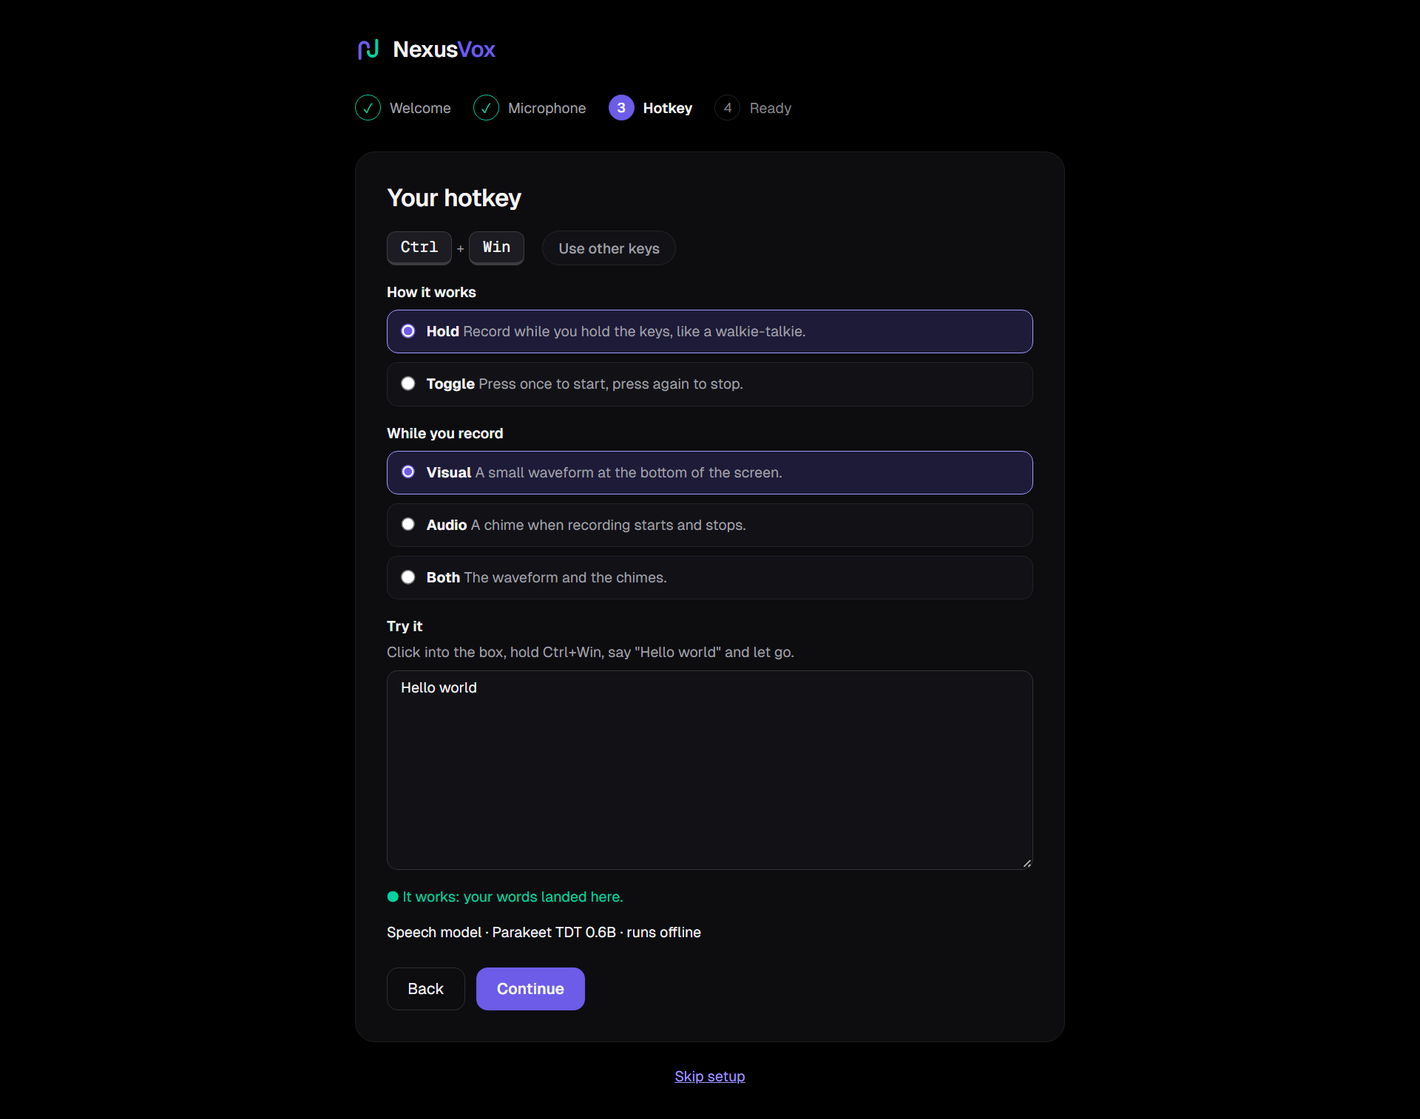
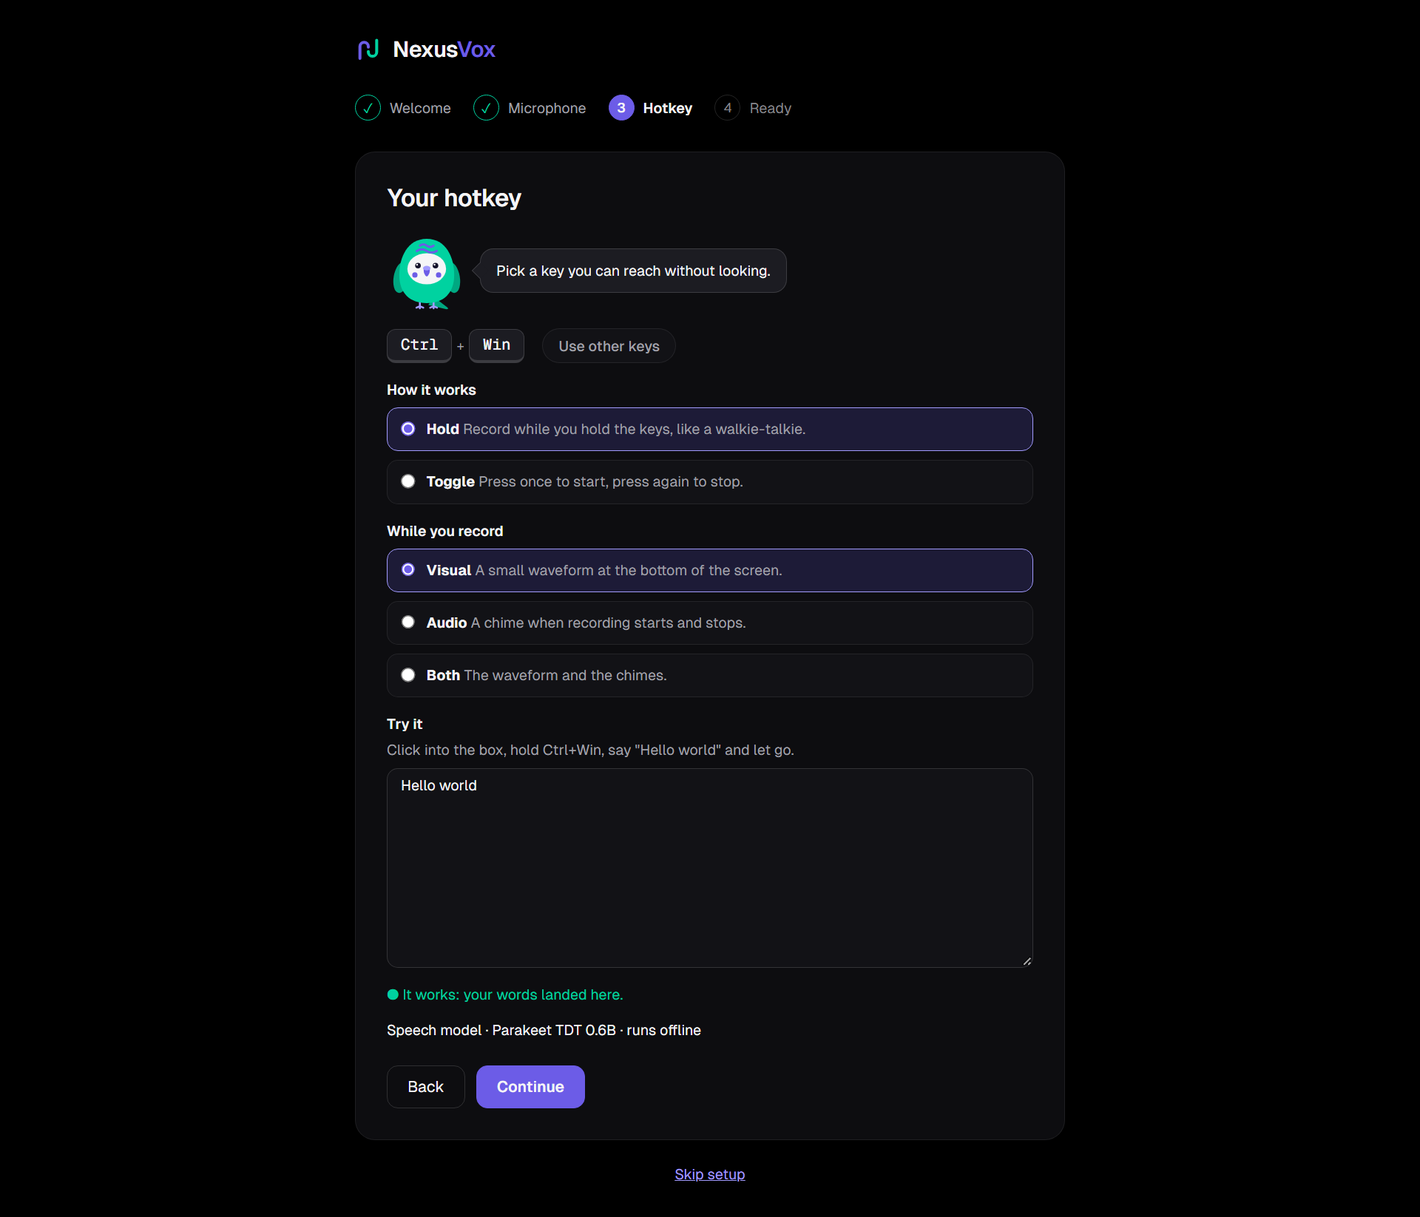
Show Pip in the first-run setup and the empty Recordings list (#385)
* Show Pip in the first-run setup and the empty Recordings list

Closes #383

Pip now guides the first-run setup with one short sentence beside each
step and sleeps in the empty Recordings list with a hint on how to add a
first recording. Both go through mountPip, so with Show Pip off the hosts
stay empty and hidden and the setup and list look as before. The empty
list is only redrawn when its message changes, so Pip's motion is not
restarted by the pending poll. The setup screenshots are refreshed and
pip_poses.py also photographs the empty list.

* Address review findings on the Pip setup and empty-state change

The empty-list hint now points at the Start recording and upload controls
that sit above the list. A Pip host dropped with the empty list is
unmounted first, so Show Pip no longer redraws detached hosts. pip_poses.py
writes the empty-list image next to --out and says its markup is a copy;
a test fails when the copy drifts from the dashboard. The setup-mount test
now checks the real loop and that the line is never set as markup.

---------

diff --git a/src/nexusvox/dashboard/static/index.html b/src/nexusvox/dashboard/static/index.html
@@ -1239,6 +1239,7 @@
 
       <section class="setup-panel" data-step="0" aria-labelledby="setup-h-0">
         <h3 class="setup-heading" id="setup-h-0" tabindex="-1">Welcome to NexusVox</h3>
+        <div class="setup-pip" data-pip-pose="idle" data-pip-line="Hi, I am Pip, and this will only take a minute." hidden></div>
         <p class="setup-lead">Hold a key, speak, let go: your words are typed into whatever app you are in. The speech is recognised on this computer.</p>
         <p class="setup-text">Setting up takes about a minute: pick your microphone, check your hotkey and say hello.</p>
         <div class="setup-actions">
@@ -1248,6 +1249,7 @@
 
       <section class="setup-panel" data-step="1" aria-labelledby="setup-h-1" hidden>
         <h3 class="setup-heading" id="setup-h-1" tabindex="-1">Choose your microphone</h3>
+        <div class="setup-pip" data-pip-pose="tilt" data-pip-line="Say a few words and watch the bar move." hidden></div>
         <p class="setup-text">Pick the microphone you dictate with, then say something: the bar should move.</p>
         <label class="setup-field">
           <span class="setup-label">Microphone</span>
@@ -1265,6 +1267,7 @@
 
       <section class="setup-panel" data-step="2" aria-labelledby="setup-h-2" hidden>
         <h3 class="setup-heading" id="setup-h-2" tabindex="-1">Your hotkey</h3>
+        <div class="setup-pip" data-pip-pose="idle" data-pip-line="Pick a key you can reach without looking." hidden></div>
         <div class="setup-hotkey">
           <span class="keycaps" id="setup-hotkey-keycaps" aria-label="Your dictation hotkey"></span>
           <button type="button" class="period-btn" id="setup-hotkey-record">Use other keys</button>
@@ -1305,6 +1308,7 @@
 
       <section class="setup-panel" data-step="3" aria-labelledby="setup-h-3" hidden>
         <h3 class="setup-heading" id="setup-h-3" tabindex="-1">You are ready</h3>
+        <div class="setup-pip" data-pip-pose="idle" data-pip-line="You are set, so go ahead and speak." hidden></div>
         <dl class="setup-summary">
           <dt>Microphone</dt><dd id="setup-sum-mic"></dd>
           <dt>Hotkey</dt><dd><span class="keycaps" id="setup-sum-keycaps"></span></dd>

diff --git a/src/nexusvox/dashboard/static/dashboard-recordings.js b/src/nexusvox/dashboard/static/dashboard-recordings.js
@@ -269,6 +269,15 @@ function shownRecordings() {
   return recItems.filter((item) => matchesRecordingSearch(item, query));
 }
 
+// What Pip says over an empty list; it is only a hint, so it names no recording content.
+const REC_EMPTY_PIP_LINE = "Start a recording or upload a file above, and it shows up here.";
+
+// A Pip host that is thrown away with the empty list is released first, so Show Pip does not keep redrawing it.
+function dropEmptyPip() {
+  const host = recList.querySelector(".rec-empty-pip");
+  if (host) unmountPip(host);
+}
+
 function recordingRowHtml(item) {
   return `<button type="button" class="rec-row" data-id="${item.id}" data-kind="${item.kind === "meeting" ? "meeting" : "upload"}">
       <span class="rec-row-icon" aria-hidden="true"></span>
@@ -288,9 +297,21 @@ function renderRecordingList() {
   const focusedId = active && recList.contains(active) && active.dataset ? active.dataset.id : undefined;
   const message = !recItems.length ? "No recordings yet." : !shown.length ? "Nothing matches your search." : "";
   if (message) {
+    // The list redraws on every poll; an empty list that is already drawn stays, so Pip's breathing is not restarted.
+    if (recList.dataset.empty === message) return;
+    recList.dataset.empty = message;
+    dropEmptyPip();
     recList.innerHTML = `<li class="empty-state">${message}</li>`;
+    if (!recItems.length) {
+      const host = document.createElement("div");
+      host.className = "rec-empty-pip";
+      recList.firstElementChild.append(host);
+      mountPip(host, { pose: "sleeping", size: 72, bubble: REC_EMPTY_PIP_LINE });
+    }
     return;
   }
+  if (recList.dataset.empty) dropEmptyPip();
+  delete recList.dataset.empty;
   const existing = new Map([...recList.children].filter((li) => li.dataset.id).map((li) => [li.dataset.id, li]));
   const rows = shown.map((item) => {
     const id = String(item.id);

diff --git a/src/nexusvox/dashboard/static/dashboard-setup.js b/src/nexusvox/dashboard/static/dashboard-setup.js
@@ -26,6 +26,12 @@ const SETUP_QUIET_LEVEL = 0.05;
 const SETUP_QUIET_HINT_MS = 6000;
 const SETUP_FEEDBACK_NAMES = { visual: "Visual", sound: "Audio", both: "Visual and audio" };
 
+// Pip sits beside each step with one short sentence (data-pip-line on the host). The hosts stay empty and hidden while
+// Show Pip is off, so the setup then looks as it did before he came.
+for (const host of setupEl.querySelectorAll(".setup-pip")) {
+  mountPip(host, { pose: host.dataset.pipPose, size: 72, bubble: host.dataset.pipLine });
+}
+
 let setupStep = 0;
 let setupMeterTimer = null;
 let setupMeterRun = 0; // changes on every start and stop, so a reply from an earlier run is dropped

diff --git a/src/nexusvox/dashboard/static/recordings.css b/src/nexusvox/dashboard/static/recordings.css
@@ -185,6 +185,9 @@ main:has(#tab-recordings.active) { max-width: none; padding-top: 24px; padding-b
 /* ── List rows ────────────────────────────────────────────────────── */
 .rec-list { list-style: none; display: flex; flex-direction: column; gap: 2px; }
 .rec-list .empty-state { padding: 24px 8px; font-size: 14px; }
+.rec-empty-pip { margin-top: 16px; }
+.rec-empty-pip[hidden] { display: none; }
+.rec-empty-pip .pip { justify-content: center; text-align: left; }
 .rec-row {
   width: 100%;
   display: flex;

diff --git a/src/nexusvox/dashboard/static/setup.css b/src/nexusvox/dashboard/static/setup.css
@@ -54,6 +54,7 @@
 .setup-panel[hidden] { display: none; }
 .setup-heading { margin: 0; font-size: 22px; font-weight: 600; letter-spacing: -0.02em; }
 .setup-heading:focus { outline: none; }
+.setup-pip[hidden] { display: none; }
 .setup-lead { margin: 0; font-size: 16px; line-height: 1.5; }
 .setup-text { margin: 0; font-size: 13px; line-height: 1.5; color: var(--text-dim); }
 .setup-panel .status-line { margin-top: 0; font-size: 13px; }

diff --git a/tests/test_pip.py b/tests/test_pip.py
@@ -5,6 +5,7 @@ import json
 import re
 import shutil
 import subprocess
+from pathlib import Path
 
 import pytest
 from dashboard_js import STATIC
@@ -231,3 +232,74 @@ def test_idle_motion_is_a_two_pixel_bob_and_a_blink_that_stop_for_reduced_motion
     # Only idle and sleeping move; the still poses carry no animation.
     animated = re.findall(r"^\.(pip-[a-z]+) [^{]*\{[^}]*animation:", CSS, re.M)
     assert set(animated) <= {"pip-idle", "pip-sleeping"}
+
+
+# ── Setup and empty states ───────────────────────────────────────────
+
+SETUP_JS = (STATIC / "dashboard-setup.js").read_text(encoding="utf-8")
+RECORDINGS_JS = (STATIC / "dashboard-recordings.js").read_text(encoding="utf-8")
+
+
+def _setup_hosts():
+    return re.findall(r'<div class="setup-pip" data-pip-pose="(\w+)" data-pip-line="([^"]+)" hidden></div>', HTML)
+
+
+def test_every_setup_step_has_a_pip_host_with_one_short_sentence():
+    panels = re.findall(r'<section class="setup-panel".*?</section>', HTML, re.S)
+    assert len(panels) == 4
+    assert all(panel.count('class="setup-pip"') == 1 for panel in panels)
+    hosts = _setup_hosts()
+    assert len(hosts) == 4
+    for pose, line in hosts:
+        assert pose in {"idle", "tilt", "sleeping"}
+        assert len(line) <= 60 and line.count(". ") == 0 and line.endswith((".", "?", "!"))
+        assert "Pro" not in line  # Pip never advertises
+    # The steps themselves are untouched: heading, then Pip, then the step's own content.
+    assert re.search(
+        r'setup-heading" id="setup-h-1" tabindex="-1">Choose your microphone</h3>\s*<div class="setup-pip"', HTML
+    )
+
+
+def test_the_setup_mounts_its_hosts_through_mountpip_as_text_and_they_start_hidden():
+    block = re.search(r'for \(const host of setupEl\.querySelectorAll\("\.setup-pip"\)\) \{(.*?)\n\}', SETUP_JS, re.S)
+    assert block, "the setup no longer mounts its .setup-pip hosts in one loop"
+    assert "mountPip(host" in block.group(1) and "bubble: host.dataset.pipLine" in block.group(1)
+    assert "innerHTML" not in block.group(1)
+    assert not re.search(r"innerHTML\s*=\s*host\.dataset", SETUP_JS)  # the line is never parsed as markup
+    css = (STATIC / "setup.css").read_text(encoding="utf-8")
+    assert re.search(r"\.setup-pip\[hidden\]\s*\{\s*display:\s*none", css)
+
+
+def test_the_empty_list_photo_page_matches_the_markup_the_dashboard_draws():
+    photo = (Path(__file__).resolve().parents[1] / "scripts" / "pip_poses.py").read_text(encoding="utf-8")
+    for needle in ('<li class="empty-state">', 'host.className = "rec-empty-pip"', 'pose: "sleeping", size: 72'):
+        assert needle in RECORDINGS_JS, needle
+        assert needle in photo.replace("{{", "{").replace("}}", "}"), needle
+    assert "unmountPip(host)" in RECORDINGS_JS  # a dropped empty list releases its host
+
+
+def test_the_empty_recordings_list_shows_pip_sleeping_with_one_line_and_keeps_its_text():
+    assert 'recList.innerHTML = `<li class="empty-state">${message}</li>`' in RECORDINGS_JS  # the text as before
+    assert 'mountPip(host, { pose: "sleeping"' in RECORDINGS_JS
+    line = re.search(r'REC_EMPTY_PIP_LINE = "([^"]+)"', RECORDINGS_JS).group(1)
+    assert line.count(". ") == 0 and len(line) <= 90
+    # Pip only appears for an empty library, not for a search without a match.
+    assert "if (!recItems.length) {" in RECORDINGS_JS.split(" mountPip(host")[0].split("recList.innerHTML")[1]
+
+
+@needs_node
+def test_with_show_pip_off_the_setup_and_the_empty_list_hosts_stay_empty_and_hidden():
+    got = run_js(
+        "setShowPip(false);"
+        "const setup = new El('div'); setup.hidden = true;"
+        "mountPip(setup, { pose: 'tilt', size: 72, bubble: 'Say a few words and watch the bar move.' });"
+        "const empty = new El('div');"
+        "mountPip(empty, { pose: 'sleeping', size: 72, bubble: 'Record a meeting or upload an audio file.' });"
+        "const off = [setup, empty].map((h) => [h.hidden, h.children.length]);"
+        "setShowPip(true);"
+        "const on = [setup, empty].map((h) => [h.hidden, h.children.length,"
+        "  all(h).some((e) => e.className === 'pip pip-sleeping')]);"
+        "console.log(JSON.stringify({ off, on }));"
+    )
+    assert got["off"] == [[True, 0], [True, 0]]
+    assert got["on"] == [[False, 1, False], [False, 1, True]]

diff --git a/scripts/pip_poses.py b/scripts/pip_poses.py
@@ -3,9 +3,11 @@
     python scripts/pip_poses.py [--out docs/images/pip-poses.png] [--browser PATH] [--scale 2]
 
 A throwaway page loads `style.css` and `dashboard-pip.js` from the dashboard's static folder and mounts Pip once
-per pose (idle, blink, head tilt, sleeping) plus once with a speech bubble. The bubble text is invented sample
-data, counts only. Nothing here touches your config, your database or the network, and the browser is headless:
-no window opens. The idle motion is switched off for the picture, so two runs give the same image.
+per pose (idle, blink, head tilt, sleeping) plus once with a speech bubble. It also writes the empty Recordings list
+with Pip sleeping next to the first image (`--out`'s folder) as `pip-empty-recordings.png`.
+The bubble text is invented sample data, counts only.
+Nothing here touches your config, your database or the network, and the browser is headless: no window opens.
+The idle motion is switched off for the picture, so two runs give the same image.
 """
 
 from __future__ import annotations
@@ -22,6 +24,7 @@ from dashboard_screenshots import _find_browser, _photograph  # noqa: E402  (the
 
 STATIC = _SCRIPTS.parent / "src" / "nexusvox" / "dashboard" / "static"
 DEFAULT_OUT = _SCRIPTS.parent / "docs" / "images" / "pip-poses.png"
+EMPTY_OUT = _SCRIPTS.parent / "docs" / "images" / "pip-empty-recordings.png"
 HEIGHT = 250
 
 POSES = (("idle", "Idle"), ("blink", "Blink"), ("tilt", "Head tilt"), ("sleeping", "Sleeping"))
@@ -79,6 +82,58 @@ def build_page(directory: Path) -> Path:
     return page
 
 
+EMPTY_PAGE = """<!doctype html>
+<html lang="en"><head><meta charset="utf-8">
+<link rel="stylesheet" href="{style}"><link rel="stylesheet" href="{recordings}">
+<style>.pip-art, .pip-eyes-open, .pip-eyes-closed, .pip-sleeping .pip-art {{ animation: none !important; }}
+  body {{ display: block; padding: 28px; }} .rec-list {{ width: 340px; background: var(--surface);
+  border: 1px solid var(--border); border-radius: var(--radius); padding: 12px; }}</style></head>
+<body><ul class="rec-list" id="rec-list"></ul>
+<script src="{script}"></script>
+<script>
+  const recList = document.getElementById("rec-list");
+  recList.innerHTML = '<li class="empty-state">No recordings yet.</li>';
+  const host = document.createElement("div");
+  host.className = "rec-empty-pip";
+  recList.firstElementChild.append(host);
+  mountPip(host, {{ pose: "sleeping", size: 72, bubble: {bubble} }});
+</script></body></html>
+"""
+
+
+def empty_recordings_page(directory: Path) -> Path:
+    """The empty Recordings list: a hand-kept copy of the markup `renderRecordingList` draws, with the real style
+    sheets, Pip component and bubble text. `tests/test_pip.py` fails when the copy and the script drift apart."""
+    import json
+
+    text = (STATIC / "dashboard-recordings.js").read_text(encoding="utf-8")
+    line = text.split('REC_EMPTY_PIP_LINE = "', 1)[1].split('"', 1)[0]
+    page = directory / "pip-empty-recordings.html"
+    page.write_text(
+        EMPTY_PAGE.format(
+            style=(STATIC / "style.css").as_uri(),
+            recordings=(STATIC / "recordings.css").as_uri(),
+            script=(STATIC / "dashboard-pip.js").as_uri(),
+            bubble=json.dumps(line),
+        ),
+        encoding="utf-8",
+    )
+    return page
+
+
+def run_empty(out: Path, browser: str | None, scale: float) -> Path:
+    browser_path = _find_browser(browser)
+    out = out.resolve()
+    out.parent.mkdir(parents=True, exist_ok=True)
+    with tempfile.TemporaryDirectory(prefix="nexusvox-pip-", ignore_cleanup_errors=True) as tmp:
+        work = Path(tmp)
+        target = work / out.name
+        _photograph(browser_path, empty_recordings_page(work).as_uri(), target, work / "browser-profile", scale, 230)
+        out.write_bytes(target.read_bytes())
+    print(f"wrote {out}")
+    return out
+
+
 def run(out: Path, browser: str | None, scale: float) -> Path:
     browser_path = _find_browser(browser)
     out = out.resolve()
@@ -100,6 +155,7 @@ def main(argv: list[str] | None = None) -> int:
     parser.add_argument("--scale", type=float, default=2.0, help="device pixel ratio of the image (default: 2)")
     args = parser.parse_args(argv)
     run(args.out, args.browser, args.scale)
+    run_empty(args.out.with_name(EMPTY_OUT.name), args.browser, args.scale)
     return 0
 
 

diff --git a/docs/internals/dashboard.md b/docs/internals/dashboard.md
@@ -27,7 +27,7 @@ Aurora Precision theme, shared with the website. Tokens are the `:root` variable
 
 ## Tabs
 
-**Pip (the mascot)** - `dashboard-pip.js`, loaded right after the core. Pip is the round mint budgie of the brand, drawn as one inline SVG (`pipSvg(pose)`) with four poses: `idle`, `blink` (eyes shut), `tilt` (head turned, eyes wide) and `sleeping` (eyes shut, a small *z*). A tab never writes his markup: it calls `mountPip(host, { pose, size, bubble })`, which fills `host` with `createPip(options)`. `size` is clamped to 64-96 px (default 80); `bubble` is the speech-bubble slot, text (inserted as a text node, so never parsed as markup) or a Node, and empty means no bubble. The bubble is styled (`.pip-bubble`), what it says is up to the tab that mounts him; it only ever shows counts, never dictated or transcribed text. The Show Pip setting (`[general].show_pip`, default on, `POST /api/settings/show-pip`, `show_pip` in `GET /api/settings`, a switch in Settings > Advanced) is `setShowPip(on)`: `loadSettings` and the switch call it, and it redraws every mounted host (connected or not yet inserted; the list holds weak references, `unmountPip` removes one), so off leaves them empty and hidden (`createPip` returns null) and no figure or bubble appears anywhere; on fills them again. Mounting before the setting is known shows him, the default. Colours are tokens in `style.css` (`--green`, `--pip-mint-dark`, `--pip-ink`, `--accent`, `--accent-light`, `--text`), no hex in the script. Idle motion is CSS only: a 4 s breathing bob of 2 px, a blink every 5 s, and a slower bob for `sleeping`; `prefers-reduced-motion: reduce` stops all of it. `scripts/pip_poses.py` photographs every pose from the real component and style sheet (`docs/SCREENSHOTS.md`). Tested in `tests/test_pip.py`.
+**Pip (the mascot)** - `dashboard-pip.js`, loaded right after the core. Pip is the round mint budgie of the brand, drawn as one inline SVG (`pipSvg(pose)`) with four poses: `idle`, `blink` (eyes shut), `tilt` (head turned, eyes wide) and `sleeping` (eyes shut, a small *z*). A tab never writes his markup: it calls `mountPip(host, { pose, size, bubble })`, which fills `host` with `createPip(options)`. `size` is clamped to 64-96 px (default 80); `bubble` is the speech-bubble slot, text (inserted as a text node, so never parsed as markup) or a Node, and empty means no bubble. The bubble is styled (`.pip-bubble`), what it says is up to the tab that mounts him; it only ever shows counts, never dictated or transcribed text. The Show Pip setting (`[general].show_pip`, default on, `POST /api/settings/show-pip`, `show_pip` in `GET /api/settings`, a switch in Settings > Advanced) is `setShowPip(on)`: `loadSettings` and the switch call it, and it redraws every mounted host (connected or not yet inserted; the list holds weak references, `unmountPip` removes one), so off leaves them empty and hidden (`createPip` returns null) and no figure or bubble appears anywhere; on fills them again. Mounting before the setting is known shows him, the default. Colours are tokens in `style.css` (`--green`, `--pip-mint-dark`, `--pip-ink`, `--accent`, `--accent-light`, `--text`), no hex in the script. Idle motion is CSS only: a 4 s breathing bob of 2 px, a blink every 5 s, and a slower bob for `sleeping`; `prefers-reduced-motion: reduce` stops all of it. Pip is placed in two spots so far: beside each first-run setup step (a `.setup-pip` host in `index.html` with `data-pip-pose` and one `data-pip-line` sentence, mounted by `dashboard-setup.js`) and, sleeping, in the empty Recordings list (`REC_EMPTY_PIP_LINE`; only an empty library, not a search without a match). With Show Pip off both hosts stay empty and hidden, so the setup and the list read as before. `scripts/pip_poses.py` photographs every pose from the real component and style sheet (`docs/SCREENSHOTS.md`). Tested in `tests/test_pip.py`.
 
 **Back and Forward** - the browser's history walks the pages the user visited (mouse buttons 4 and 5, Alt+Left/Right, the arrows; the browser tab the tray opens and an app window behave alike, as both keep the session history). Every step goes through `pushPage(hash)` (`dashboard-core.js`): a sidebar tab, a Settings page, an Analytics view, `goToTab`, the Meetings link into Settings, and a recording opened from elsewhere (`#recordings/<id>`, `showRecording`). The same page twice adds no entry (`samePage` compares `pageOfHash`: no hash is `#home`, a bare `#settings` is its first page, `#analytics/overview` is `#analytics`). `pushState` fires no event, so Back and Forward run `restoreTabFromHash` through `hashchange`; it opens the tab and the Settings page (a bare `#settings` shows the first page, not the one left open). `#recordings/<id>` goes through `restoreRecording` instead, which leaves the tab opening to `showRecording(id, { restore: true, current })` (one lookup, not two): coming back to the recording already chosen keeps its tab and passage, and a lookup that ends after the user moved to another entry changes nothing (`current` compares the address). A recording that is gone or an id with a malformed escape leaves `#recordings`. A hash that only corrects itself (an alias, a tab that is off) goes through `replaceHash`, which keeps the entry's marker; choosing another recording in the list rewrites `#recordings/<id>` to the new id in the same entry (no second entry), so a reload does not jump back. A reload keeps the entries and the page. Back on the first page would leave the dashboard, so on the first plain click or key press `guardHistory` turns that entry into a marker (`state.nv = "start"`) and adds a copy of it; it waits until the page start has settled the address (`markHistoryReady`), so both carry the URL the user sees, and a mouse Back button or Alt+Left does not arm it. The `popstate` handler in `dashboard-init.js` steps forward again when Back lands on the marker (the entries are added after a gesture, which browsers require for Back to stop on them). Tests: `tests/test_dashboard_history_js.py`.
 

diff --git a/docs/SCREENSHOTS.md b/docs/SCREENSHOTS.md
@@ -33,7 +33,7 @@ The setup is an overlay that opens while `[general].setup_done` is false, so tho
 setup due; the script tells the page which step to show (`SETUP_SCRIPT`), fills the test box on the hotkey step and
 replaces the microphone list and level with demo values (the real audio devices are never probed).
 
-`scripts/pip_poses.py` is a separate, smaller script for Pip, the dashboard mascot: `python scripts/pip_poses.py` writes `docs/images/pip-poses.png`, one headless photograph of the real `dashboard-pip.js` and `style.css` with Pip in each pose (idle, blink, head tilt, sleeping) and once with a speech bubble. It builds a throwaway page in a temporary folder with invented sample text, opens no window, reads no config or database and switches the idle motion off so two runs match. It reuses the browser lookup and launch of `dashboard_screenshots.py`.
+`scripts/pip_poses.py` is a separate, smaller script for Pip, the dashboard mascot: `python scripts/pip_poses.py` writes `docs/images/pip-poses.png`, one headless photograph of the real `dashboard-pip.js` and `style.css` with Pip in each pose (idle, blink, head tilt, sleeping) and once with a speech bubble, and `docs/images/pip-empty-recordings.png`, the empty Recordings list with Pip sleeping. It builds a throwaway page in a temporary folder with invented sample text, opens no window, reads no config or database and switches the idle motion off so two runs match. It reuses the browser lookup and launch of `dashboard_screenshots.py`.
 
 The Recordings tab fills one window with its two panes and is photographed at a window's height. The
 script serves its own copy of the page with the elements after the last card to show hidden when a tab
